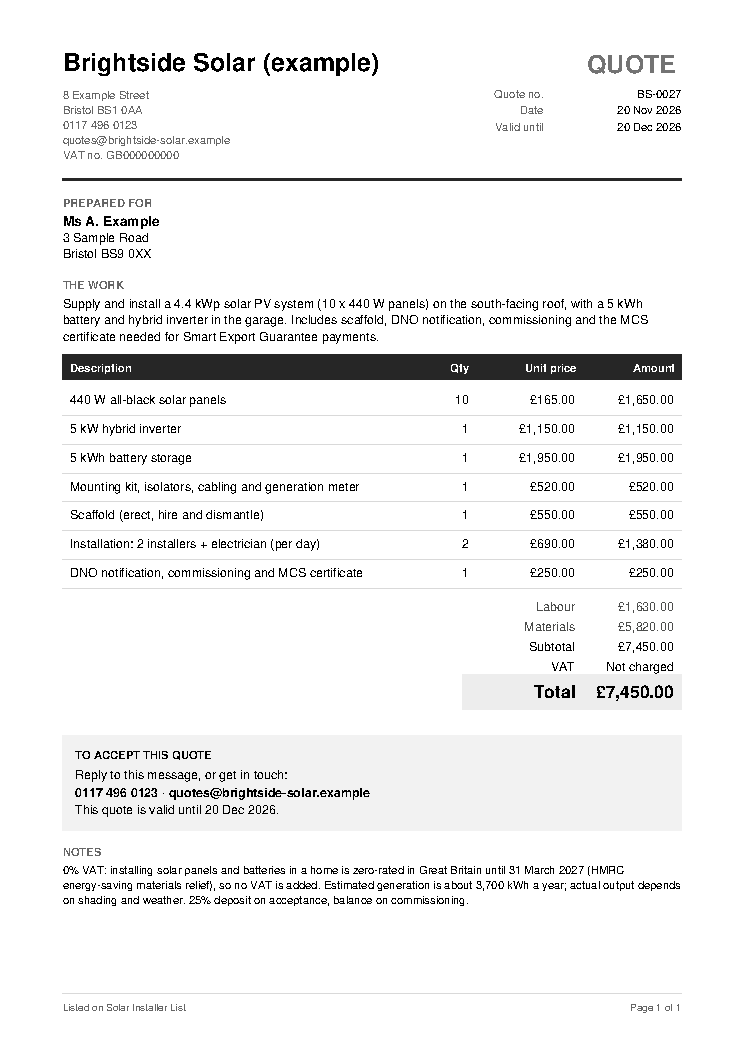
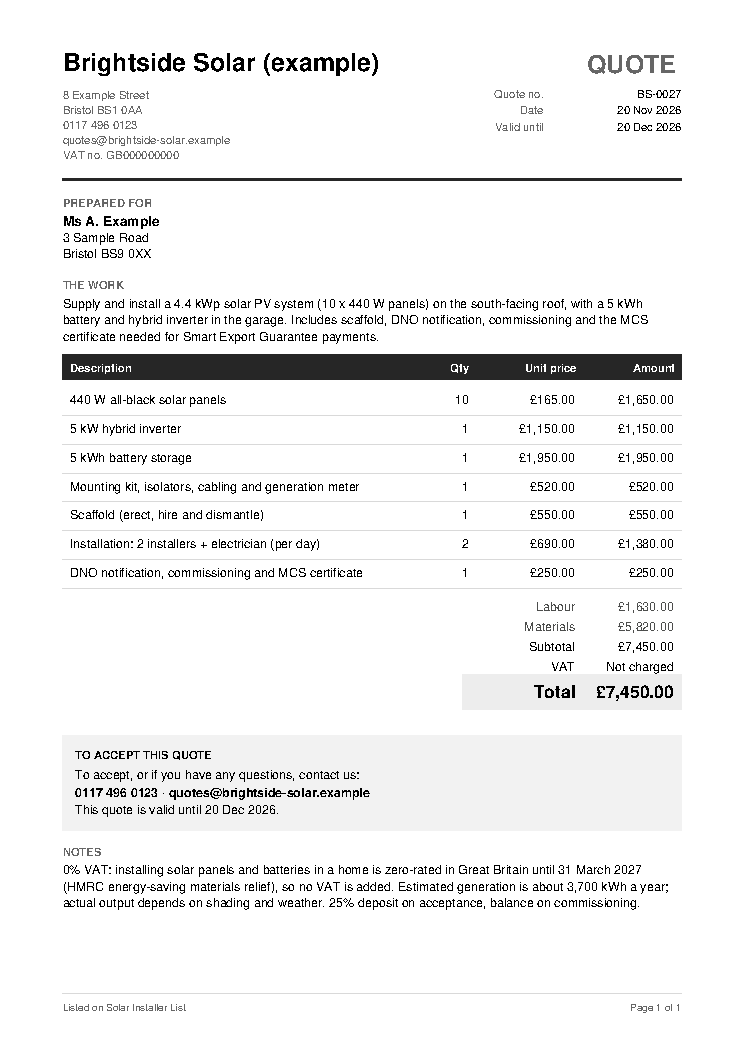
Design follow-up: readable notes, neutral accept wording
Notes at body size so deposit/payment terms are easy to find; accept
box no longer assumes the quote arrived by message and never shows an
empty contact line; QUOTE title 0.4 grey for print; flat file picker.

diff --git a/static/index.html b/static/index.html
@@ -32,7 +32,7 @@
   label { display: block; font-size: 15px; font-weight: 500; color: var(--label); margin: 10px 0 4px; }
   .hint { font-size: 13px; color: var(--muted); margin: 4px 0 0; }
   :focus-visible { outline: 3px solid var(--accent); outline-offset: 2px; }
-  input[type=file] { padding: 8px; font-size: 15px; }
+  input[type=file] { padding: 4px 0; font-size: 15px; background: none; border: 0; }
   input[type=file]::file-selector-button { font: inherit; font-weight: 600; min-height: 40px; padding: 0 14px; margin-right: 10px;
     border: 1px solid var(--line); border-radius: 8px; background: var(--card); color: var(--ink); cursor: pointer; }
   input, textarea, select { width: 100%; font: inherit; color: var(--ink); background: var(--bg);

diff --git a/src/render.rs b/src/render.rs
@@ -120,9 +120,15 @@ pub(crate) fn accept_lines(q: &Quote) -> Vec<(String, bool)> {
         .collect();
     let mut lines = Vec::new();
     if contacts.is_empty() {
-        lines.push(("Reply to this message to accept.".to_string(), false));
+        lines.push((
+            "To accept, reply to the person who sent you this quote.".to_string(),
+            false,
+        ));
     } else {
-        lines.push(("Reply to this message, or get in touch:".to_string(), false));
+        lines.push((
+            "To accept, or if you have any questions, contact us:".to_string(),
+            false,
+        ));
         lines.push((contacts.join("  ·  "), true));
     }
     if !q.valid_until.is_empty() {
@@ -242,7 +248,7 @@ pub fn render_quote(q: &Quote) -> Vec<u8> {
 
     let mut right_y = header_top - 8.0;
     l.page()
-        .text_right(RIGHT, right_y, Font::Bold, TITLE_SIZE, 0.45, TITLE);
+        .text_right(RIGHT, right_y, Font::Bold, TITLE_SIZE, 0.4, TITLE);
     right_y -= 20.0;
     for (label, value) in [
         ("Quote no.", &q.quote_number),
@@ -414,7 +420,7 @@ pub fn render_quote(q: &Quote) -> Vec<u8> {
     if !q.notes.is_empty() {
         l.y -= 14.0;
         l.heading("NOTES");
-        l.paragraph(&q.notes, 9.0, 12.0);
+        l.paragraph(&q.notes, BODY, LEADING);
     }
 
     // Photos.
@@ -630,7 +636,18 @@ mod tests {
         r.business.phone = String::new();
         r.business.email = String::new();
         let lines = accept_lines(&validate(r).unwrap());
-        assert_eq!(lines[0].0, "Reply to this message to accept.");
+        assert_eq!(
+            lines[0].0,
+            "To accept, reply to the person who sent you this quote."
+        );
+        assert!(lines
+            .iter()
+            .all(|(t, _)| !t.trim().is_empty() && !t.contains("·  ·")));
+        // Only one contact: no dangling separator.
+        let mut r = sample(1, "");
+        r.business.email = String::new();
+        let lines = accept_lines(&validate(r).unwrap());
+        assert_eq!(lines[1].0, "07700 900123");
     }
 
     #[test]
